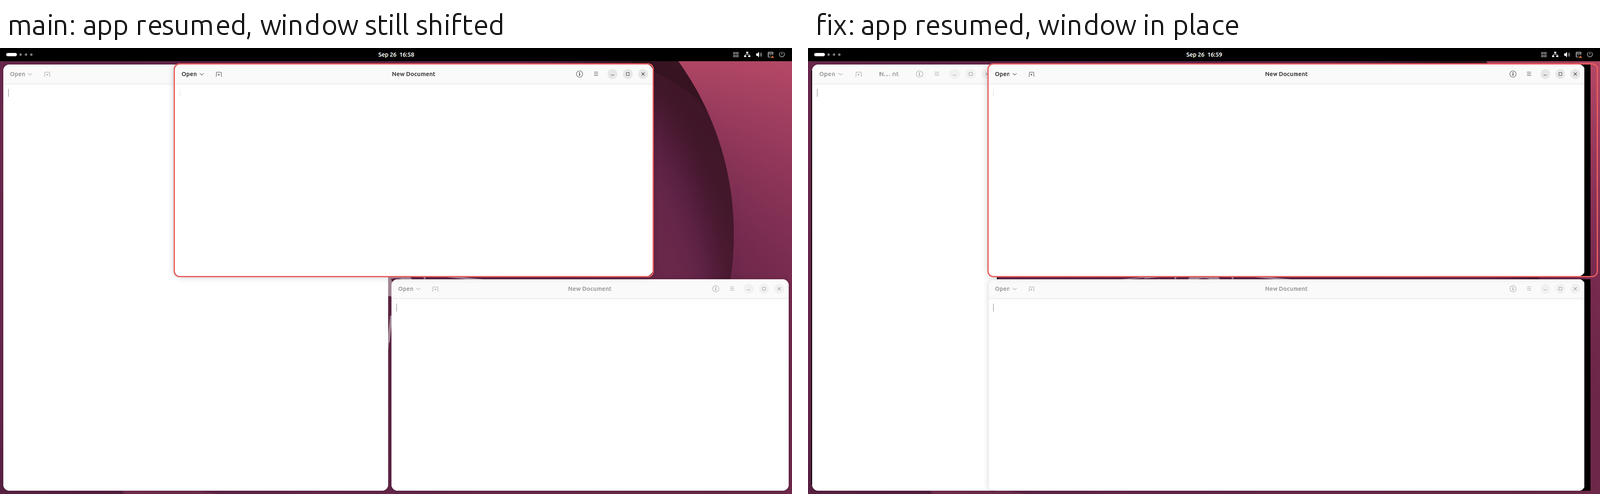
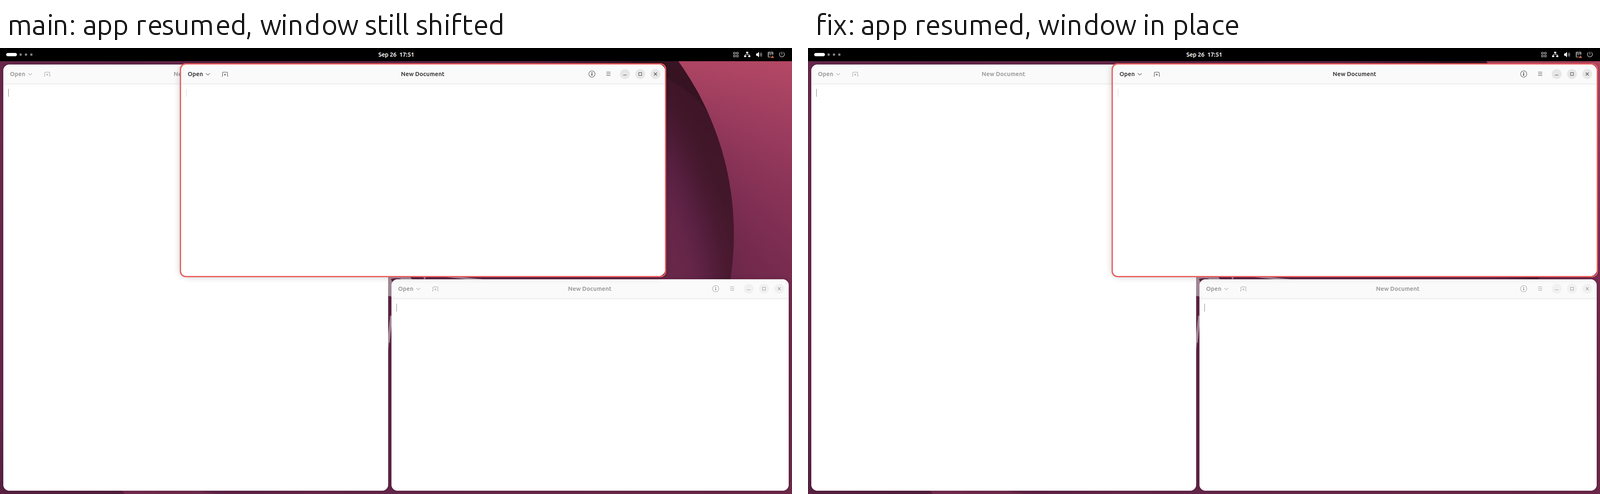
Screenshots for all write-ups (issue 4 fits case, slow app with the one-request fix); scenario tweaks
- docs/make_shots.py: issue 4 marks where a window sticks out of its place;
  slow-app shot uses the one-request fix.
- 02 resets the layout before each case; 06 checks a living tab group keeps
  one tab per window; 07 allows 120 s for VS Code; 10 checks the live-resize
  loop only (renders re-send on purpose).
- harness: open_app(log=), fuzz prints Forge JS errors.

diff --git a/docs/make_shots.py b/docs/make_shots.py
@@ -88,15 +88,42 @@ def past_minimum(name):
     shots.shot(path("3", name, "after"))
 
 
-def overflow(name):
-    """Issue 4: one more window than fits side by side (tabbed setting on the fixed build)."""
+def overlaps():
+    """Overlapping regions between windows on this workspace: [(x, y, w, h)]."""
+    ws = h.windows()
+    out = []
+    for i, a in enumerate(ws):
+        for b in ws[i + 1:]:
+            x0, y0 = max(a["x"], b["x"]), max(a["y"], b["y"])
+            x1, y1 = min(a["x"] + a["w"], b["x"] + b["w"]), min(a["y"] + a["h"], b["y"] + b["h"])
+            if x1 - x0 > 2 and y1 - y0 > 2:
+                out.append((x0, y0, x1 - x0, y1 - y0))
+    return out
+
+
+def min_size_fits(name):
+    """Issue 4: the middle window is at its minimum, then the gaps grow: it must keep its minimum
+    and its neighbours give up the space, instead of it overlapping them."""
     h.set_forge_setting("auto-split-enabled", False)
-    h.set_forge_setting("min-size-overflow", "tabbed")
-    width = h.monitor_size()[0]
-    for _ in range(width // 368 + 1):
+    for _ in range(3):
         h.open_editor()
+    a, b, c = sorted(h.windows(), key=lambda w: w["x"])
+    h.drag_edge(a["id"], "right", h.monitor_size()[0] // 3, steps=30)
+    time.sleep(1.0)
+    h.set_forge_setting("window-gap-size-increment", 6)
     time.sleep(1.5)
-    shots.shot(path("4", name, "after"))
+    raw = shots.shot(path("4", name, "after-raw"))
+    # Mark where a window sticks out of the place Forge laid it out at
+    places = h.js(f"""JSON.stringify(({h.HERE}?.getNodeByType("WINDOW") ?? []).map(n => {{
+        const f = n.nodeValue.get_frame_rect(), r = n.renderRect;
+        return r ? [f.x, f.y, f.width, f.height, r.x, r.y, r.width, r.height] : null; }}).filter(Boolean))""")
+    boxes = []
+    for fx, fy, fw, fh, rx, ry, rw, rh in __import__("json").loads(places):
+        if fx + fw > rx + rw + 2:
+            boxes.append((rx + rw, fy, fx + fw - rx - rw, fh, RED, "outside its place"))
+        if fx < rx - 2:
+            boxes.append((fx, fy, rx - fx, fh, RED, "outside its place"))
+    shots.annotate(raw, path("4", name, "after"), boxes)
 
 
 def stale_tab_bar(name):
@@ -144,7 +171,7 @@ def slow_app(name):
 
 
 SHOTS = {"1": cross_container_drag, "532": held_key_cross_container, "2": wrong_edge, "3": past_minimum,
-         "4": overflow, "6": stale_tab_bar, "7": nested_same_direction, "9": slow_app}
+         "4": min_size_fits, "6": stale_tab_bar, "7": nested_same_direction, "9": slow_app}
 
 # Captions for the composed before/after images: (moment, caption on main, caption with the fix)
 COMPOSE = {
@@ -155,7 +182,7 @@ COMPOSE = {
     "2": [("during", "main: 'grow bottom' moves the TOP edge", "fix: the bottom edge moves")],
     "3": [("during", "main: still held - pushed off-screen", "fix: stops at the minimum"),
           ("after", "main: after release", "fix: after release")],
-    "4": [("after", "main: 6 windows overlap / off-screen", "fix (Tabbed): extra windows as tabs")],
+    "4": [("after", "main: the middle window sticks out of its place", "fix: it keeps its minimum, the others give way")],
     "6": [("after", "main: tab bar left behind", "fix: gone")],
     "7": [("after", "without fix: the right window grew too", "fix: only the dragged edge moved")],
     "9": [("after-resume", "main: app resumed, window still shifted", "fix: app resumed, window in place")],

diff --git a/scenarios/10_performance.py b/scenarios/10_performance.py
@@ -8,11 +8,12 @@ window move/resize requests it sends, by caller):
   drag       a 2 s mouse drag of a border between containers (the live-resize loop, 16 ms ticks)
   hold       a 2 s held resize shortcut
 
-Every move/resize request makes the app redraw, so requests for windows on another workspace, or
-for a window already at that exact geometry, are wasted work. Checks:
-  10.1  a live-resize tick only moves windows on the current workspace
-  10.2  a render only moves windows whose geometry changes (none, for a re-render of an
-        unchanged layout)
+Every move/resize request makes the app redraw. During a live resize (a 16 ms loop) requests
+for windows on another workspace, or for a window already at that exact geometry, are wasted:
+  10.1  live-resize ticks only move windows on the current workspace
+  10.2  live-resize ticks only re-send a window's place when it changed (at most one first
+        request per window per resize)
+  10.3  (info) requests per render; renders re-send every window's place on purpose
 Timings are reported, not judged (they depend on the machine).
 
     sandbox/launch.sh && scenarios/10_performance.py [--json out.json]
@@ -114,14 +115,18 @@ def main():
     ok = other == 0
     print(f"  {'PASS' if ok else 'FAIL'}  10.1: live-resize ticks moved windows on another workspace {other} times")
     r.append(ok)
+    live = [rep["moves"].get("wm._liveResizeNeighbors", {}) for rep in (reports["drag"], reports["hold"])]
+    redundant = sum(m.get("unchanged", 0) for m in live)
+    allowed = 2 * len(h.windows())    # one first request per window, per drag/hold
+    ok = redundant <= allowed
+    print(f"  {'PASS' if ok else 'FAIL'}  10.2: live-resize requests to windows already in place: {redundant} "
+          f"(at most {allowed}: one per window per resize)")
+    r.append(ok)
     apply_moves = reports["render"]["moves"].get("tree.apply", {})
     renders = reports["render"]["timings"].get("tree.render", {}).get("calls", 0)
-    wasted = apply_moves.get("unchanged", 0) + apply_moves.get("otherWorkspace", 0)
-    ok = wasted == 0
-    print(f"  {'PASS' if ok else 'FAIL'}  10.2: {renders} re-renders of an unchanged layout sent {apply_moves.get('calls', 0)} "
-          f"move requests ({apply_moves.get('unchanged', 0)} to windows already there, "
-          f"{apply_moves.get('otherWorkspace', 0)} to other workspaces)")
-    r.append(ok)
+    print(f"  info  10.3: {renders} re-renders of an unchanged layout sent {apply_moves.get('calls', 0)} move "
+          f"requests ({apply_moves.get('unchanged', 0)} to windows already there). Renders re-send every "
+          f"window's place on purpose (they put windows back if anything moved them)")
     sys.exit(h.summary(r))
 
 

diff --git a/lib/harness.py b/lib/harness.py
@@ -73,13 +73,14 @@ def park_pointer():
         return "ok"; })()""")
 
 
-def open_app(*argv, timeout=10):
-    """Open an app inside the sandbox and wait until Forge tiles its window."""
+def open_app(*argv, timeout=10, log=None):
+    """Open an app inside the sandbox and wait until Forge tiles its window.
+    `log`: file for the app's output (default: discarded)."""
     park_pointer()
     before = len(windows())
+    out = open(log, "a") if log else subprocess.DEVNULL
     subprocess.Popen([os.path.join(ROOT, "sandbox", "run-in-sandbox.sh"), *argv],
-                     stdout=subprocess.DEVNULL, stderr=subprocess.DEVNULL, stdin=subprocess.DEVNULL,
-                     start_new_session=True)
+                     stdout=out, stderr=out, stdin=subprocess.DEVNULL, start_new_session=True)
     for _ in range(int(timeout * 4)):
         time.sleep(0.25)
         if len(windows()) > before:

diff --git a/scenarios/06_stale_tab_bar.py b/scenarios/06_stale_tab_bar.py
@@ -73,7 +73,13 @@ def main():
     print("control: close the tabbed windows one at a time")
     ids = tabbed_group()
     print(f"          tree: {h.tree_summary()}  tab bars: {tab_bars()}")
-    close(ids, together=False)
+    close(ids[:1], together=False)
+    tabs = h.js(f"""(() => {{ const con = {WM}.tree.getNodeByType("CON").find(c => c.isTabbed());
+        return con && con.decoration ? con.decoration.get_n_children() : -1; }})()""")
+    ok = tabs == 2
+    print(f"  {'PASS' if ok else 'FAIL'}  6.6: after closing 1 of 3 tabs, the group's tab bar shows {tabs} tabs (2 expected)")
+    r.append(ok)
+    close(ids[1:], together=False)
     r.append(check("6.1", "after closing 3 tabs one by one"))
     print("bug: close the tabbed windows together (e.g. quitting an app with several windows)")
     ids = tabbed_group()

diff --git a/scenarios/07_real_apps.py b/scenarios/07_real_apps.py
@@ -30,7 +30,8 @@ def vscode():
     display = h.js('GLib.getenv("DISPLAY")')
     xauth = h.js('GLib.getenv("XAUTHORITY")')
     h.open_app("env", f"DISPLAY={display}", f"XAUTHORITY={xauth}", "code", "--new-window",
-               f"--user-data-dir={VSCODE_DIR}", "--skip-welcome", "--disable-workspace-trust", timeout=30)
+               f"--user-data-dir={VSCODE_DIR}", "--skip-welcome", "--disable-workspace-trust", timeout=120,
+               log=os.path.join(h.SANDBOX_DIR, "vscode.log"))
 
 
 def toggle_container_layout(focus_id):

diff --git a/scenarios/02_keyboard_resize_edge.py b/scenarios/02_keyboard_resize_edge.py
@@ -32,6 +32,7 @@ def fixed_edge_check(name, win, side, mode, hold_ms, stall=False):
     """While `side` of `win` is resized by keyboard, the opposite edge must not move.
     stall: freeze the app for 0.6 s during the hold (a slow or busy app)."""
     opp = h.OPP[side]
+    h.reset_layout()                  # start each case from a settled, equal layout
     during = h.stall_app(win["id"], 0.8, 0.6) if stall else None
     log = h.hold_keys(win["id"], keys(side, mode), hold_ms, during=during)
     samples = []

diff --git a/README.md b/README.md
@@ -63,7 +63,7 @@ RESULT: 8/12 passed
 
 ### Profiles and screen sizes
 
-- `sandbox/launch.sh 2560x1440` sets the virtual monitor size.
+- `sandbox/launch.sh 2560x1440` sets the virtual monitor size; `SANDBOX_SECOND_MONITOR=1280x1024` adds a second monitor.
 - `SANDBOX_PROFILE=real sandbox/launch.sh` mirrors the machine you run it on as closely as
   possible:
   - its monitor size;
@@ -111,15 +111,18 @@ RESULT: 8/12 passed
 
 | Scenario | What it checks | Bug / PR |
 |---|---|---|
-| `01_cross_container_snapback.py` | Mouse drags and held resize shortcuts against a neighbour in **another container** keep their size | #532, \<issue 1\> |
-| `02_keyboard_resize_edge.py` | Vertical resize shortcuts move the right edge; a **slow app** is not slid sideways during key repeat | \<issue 2\> |
-| `03_resize_bounds.py` | A resize **stops at the neighbour's minimum size**, also while the key is held, with a slow app and with a slow neighbour | \<issue 3\> |
-| `04_min_size_layout.py` | The layout respects **minimum sizes** when the space shrinks; the `min-size-overflow` setting groups windows that don't fit | #117, #271 |
-| `06_stale_tab_bar.py` | A tab bar goes away when all of its windows close at once | \<issue 6\> |
-| `07_real_apps.py` | Checks 01–03 with real apps (Ptyxis, Files, VS Code) in the layout Forge builds by itself | |
-| `08_nested_same_direction.py` | Resizing a window's outer edge leaves its sibling alone in `HSPLIT[A, HSPLIT[B, C]]` | \<issue 7\> |
+| `01_cross_container_snapback.py` | Mouse drags and held resize shortcuts against a neighbour in **another container** keep their size | \<issue 1\>, #532 |
+| `02_keyboard_resize_edge.py` | "Grow bottom/top" shortcuts move the bottom/top edge, not the opposite one | \<issue 2\> |
+| `03_resize_bounds.py` | A resize **stops at the neighbour's minimum size**, also while a key is held and with a slow app | \<issue 3\> |
+| `04_min_size_layout.py` | Windows keep their **minimum size** when the space shrinks, and a later resize doesn't drift | #117, #271 |
+| `06_stale_tab_bar.py` | No tab bar is left behind when a tab group's windows close together, move out, or it's switched back to a split | \<issue 6\> |
+| `07_real_apps.py` | Checks 01–03 with real apps (Ptyxis, Files, VS Code), in the layout Forge builds by itself and the other direction | |
+| `08_nested_same_direction.py` | Resizing a window's outer edge leaves its sibling alone in `HSPLIT[A, HSPLIT[B, C]]` (mouse and keyboard) | \<issue 7\> |
 | `09_fuzz.py` | **Randomized stress test**: random actions, the layout rules checked after each one | finds new bugs |
-| `10_performance.py` | Timings of Forge's hot paths and the window move requests it sends | \<perf PR\> |
+| `10_performance.py` | Timings of Forge's hot paths, and the window move requests it sends (none should be redundant) | \<perf PR\> |
+| `11_slow_app.py` | A slow app's window is resized, not slid sideways, during a held resize shortcut | \<issue 9\> |
+| `12_monitors_x11.py` | Moving a window to another monitor and back, maximize/unmaximize, an X11 app (needs `SANDBOX_SECOND_MONITOR`) | regression checks |
+| `13_overflow_policy.py` | Proposal: tabs or a stack when windows can't all get their minimum size | not a fix yet |
 
 `09_fuzz.py --seed N --steps M` is deterministic for a given seed. When a step breaks a rule, it
 stops and prints the steps so far, so the failure can be replayed.
@@ -177,6 +180,8 @@ Screenshots for issues and PRs (`lib/shots.py`):
 - `~/.cache/forge-repro/sandbox/nested.log` is the nested shell's log (`JS ERROR` lines are
   Forge exceptions).
 - `sandbox/run-in-sandbox.sh <cmd>` runs a program inside the sandbox session.
+- Several sandboxes can run in parallel: give each its own `SANDBOX_DIR`, `SANDBOX_DISPLAY` (e.g.
+  `wayland-sbA`) and Forge checkout (`FORGE_SRC`, e.g. a git worktree), because each build runs `make` in it.
 - `SANDBOX_BACKEND=devkit sandbox/launch.sh` also opens the Mutter devkit viewer. Its monitor is not the
   test monitor, so use `watch.py` to see the tests.
 
